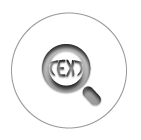
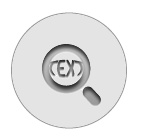
* Removed CM back button.
* Painted background on CM buttons.

diff --git a/AndroidTeam/PadKite_Stable/src/com/roamtouch/menu/MainMenu.java b/AndroidTeam/PadKite_Stable/src/com/roamtouch/menu/MainMenu.java
@@ -83,8 +83,8 @@ public class MainMenu extends CircularLayout implements OnTouchListener{
 				MenuButton b = (MenuButton) v;
 				if(b.getFunction().equals("refresh"))
 					button = b;
-				if(b.getFunction().equals("backward"))
-					backButton = b;
+				//if(b.getFunction().equals("backward"))
+				//	backButton = b;
 				if(b.getFunction().equals("forward"))
 					fwdButton = b;
 				if(b.getFunction().equals("finger_model"))
@@ -188,9 +188,9 @@ public class MainMenu extends CircularLayout implements OnTouchListener{
 				mFloatingCursor.setEventText("Forward");
 				break;	
 				
-			case backward:
-				mFloatingCursor.setEventText("Backward");
-				break;
+			//case backward:
+			//	mFloatingCursor.setEventText("Backward");
+			//	break;
 				
 			case close:
 				mFloatingCursor.setEventText("Close Application");
@@ -292,10 +292,10 @@ public class MainMenu extends CircularLayout implements OnTouchListener{
 				break;
 				
 			//Backward	
-			case backward:
-				mFloatingCursor.goBackward();		
-				mFloatingCursor.enableProgressBar();
-				break;
+			//case backward:
+			//	mFloatingCursor.goBackward();		
+			//	mFloatingCursor.enableProgressBar();
+			//	break;
 				
 			case forward:
 				mFloatingCursor.goForward();

diff --git a/AndroidTeam/PadKite_Stable/src/com/roamtouch/floatingcursor/FloatingCursor.java b/AndroidTeam/PadKite_Stable/src/com/roamtouch/floatingcursor/FloatingCursor.java
@@ -660,6 +660,7 @@ public class FloatingCursor extends FrameLayout implements MultiTouchObjectCanva
 					fcWindowTabs.setVisibility(VISIBLE);
 					fcSettingsMenu.setVisibility(INVISIBLE);
 					fcMainMenu.setVisibility(INVISIBLE);
+					fcView.setVisibility(INVISIBLE);
 					break;		
 			}		
 		}
